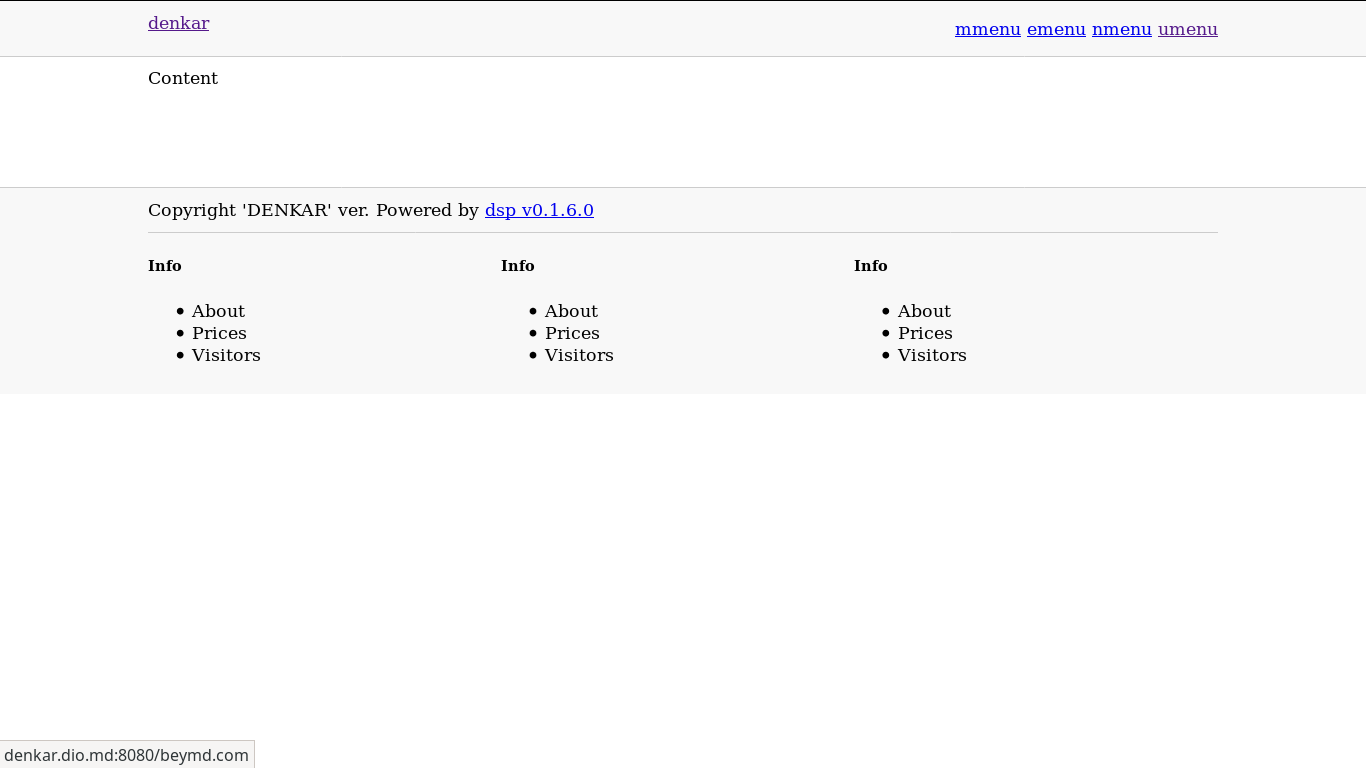
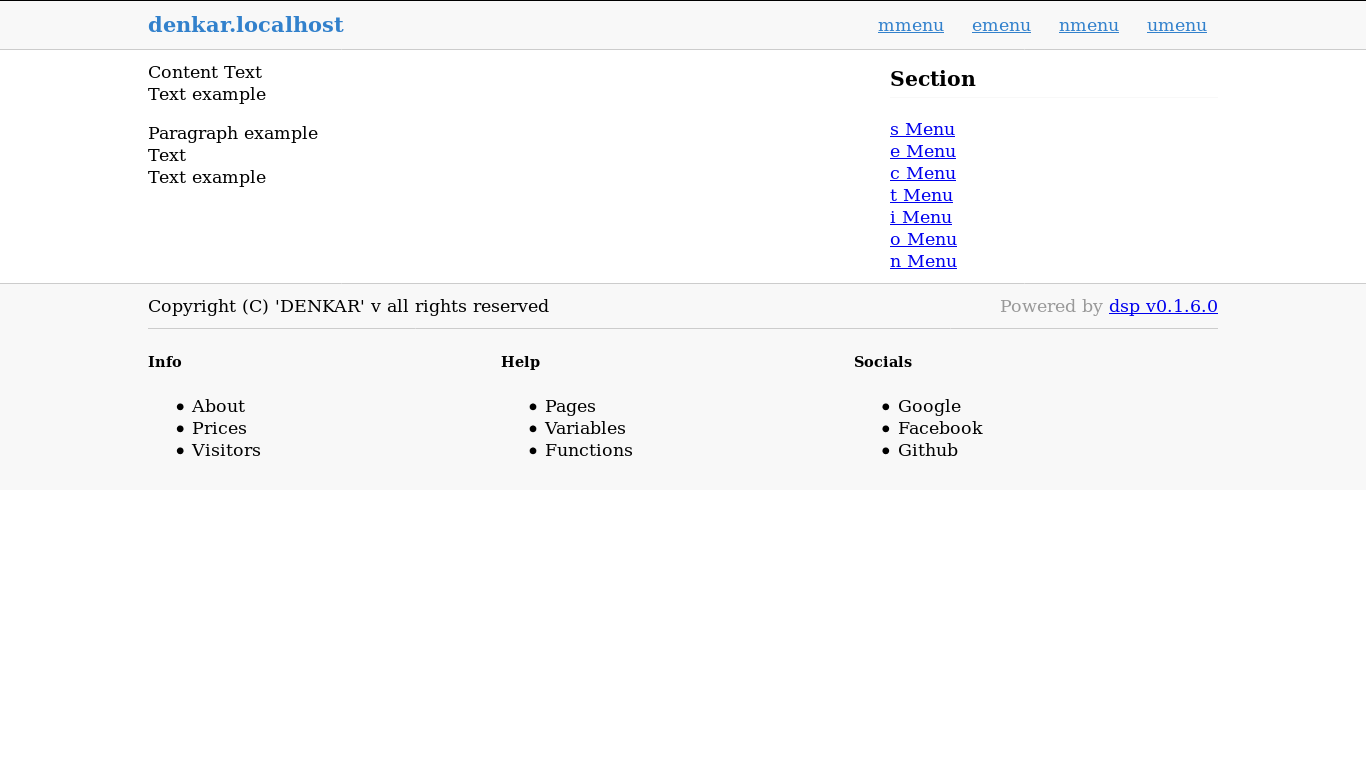
add comp secton and fix styles

diff --git a/src/pro/_www/@footer.html b/src/pro/_www/@footer.html
@@ -2,7 +2,7 @@
 <div class="footer">
     <div class="cont">
         <div class="copyright">
-            Copyright '@uppercase(name)' ver. @version
+            Copyright (C) '@uppercase(name)' v@version all rights reserved
             <div class="gensys">Powered by @builder</div>
         </div>
         <div class="ls">
@@ -15,19 +15,19 @@
                 </ul>
             </div>
             <div class="block">
-                <h5>Info</h5>
+                <h5>Help</h5>
                 <ul>
-                    <li>About</li>
-                    <li>Prices</li>
-                    <li>Visitors</li>
+                    <li>Pages</li>
+                    <li>Variables</li>
+                    <li>Functions</li>
                 </ul>
             </div>
             <div class="block">
-                <h5>Info</h5>
+                <h5>Socials</h5>
                 <ul>
-                    <li>About</li>
-                    <li>Prices</li>
-                    <li>Visitors</li>
+                    <li>Google</li>
+                    <li>Facebook</li>
+                    <li>Github</li>
                 </ul>
             </div>
         </div>

diff --git a/src/_www/@content.html b/src/_www/@content.html
@@ -1,5 +1,13 @@
 <div class="content">
     <div class="cont">
+        @include("sidebar.html")
         @content
+        Text<br>
+        Text example<br>
+        <p>
+            Paragraph example<br>
+            Text<br>
+            Text example<br>
+        </p>
     </div>
 </div>

diff --git a/src/_www/comp/section/@main.html b/src/_www/comp/section/@main.html
@@ -1,0 +1,14 @@
+<div class="bl">
+    <h3>
+        Section
+    </h3>
+    <div>
+        <ul>
+            @for("section")
+            <li>
+                <a href="/@.">@. Menu</a>
+            </li>
+            @end
+        </ul>
+    </div>
+</div>

diff --git a/src/pro/_www/style/@footer.css b/src/pro/_www/style/@footer.css
@@ -3,6 +3,7 @@
     padding: 10px 0;
     border-top: 1px solid #ccc;
     text-align: center;
+    clear: both;
 }
 .footer > .cont {
     width: 980px;

diff --git a/src/_www/style/@sidebar.css b/src/_www/style/@sidebar.css
@@ -1,4 +1,7 @@
 .sidebar {
-    width: 200px;
+    width: 300px;
     float: right;
+    margin-bottom: 10px;
 }
+
+@include("../comp/section/main.css")

diff --git a/src/light/_www/style/@general.css b/src/light/_www/style/@general.css
@@ -1,0 +1,8 @@
+.bl > h3 {
+    border-bottom: 1px solid #f8f8f8;
+    padding-bottom: 5px;
+    margin-top: 5px;
+}
+
+.bl > div {
+}

diff --git a/src/pro/_www/style/@general.css b/src/pro/_www/style/@general.css
@@ -1,0 +1,8 @@
+.bl > h3 {
+    border-bottom: 1px solid #f8f8f8;
+    padding-bottom: 5px;
+    margin-top: 5px;
+}
+
+.bl > div {
+}

diff --git a/src/_www/style/@main.css b/src/_www/style/@main.css
@@ -8,6 +8,8 @@ body {
 }
 
 @include("content.css")
+@include("sidebar.css")
+@include("general.css")
 
 @include("footer.css")
 

diff --git a/src/_www/@sidebar.html b/src/_www/@sidebar.html
@@ -1,5 +1,3 @@
 <div class="sidebar">
-    <h2>
-        Sidebar
-    </h2>
+    @include("comp/section/main.html")
 </div>

diff --git a/src/_www/comp/section/@main.css b/src/_www/comp/section/@main.css
@@ -1,0 +1,5 @@
+.bl ul {
+    list-style: none;
+    padding: 0;
+    margin: 0;
+}

diff --git a/README.md b/README.md
@@ -1,8 +1,12 @@
-dsyte v0.1.6.0
+dsyte v0.1.7.1
 ====================================
 Templates html
 
 # Features
+
+# Examples results
+
+![Result](src/pro/_www/screenshot.png)
 
 # Info
 

diff --git a/@README.md b/@README.md
@@ -4,6 +4,10 @@
 
 # Features
 
+# Examples results
+
+![Result](src/pro/_www/screenshot.png)
+
 # Info
 
 * Homepage: [@homepage]
